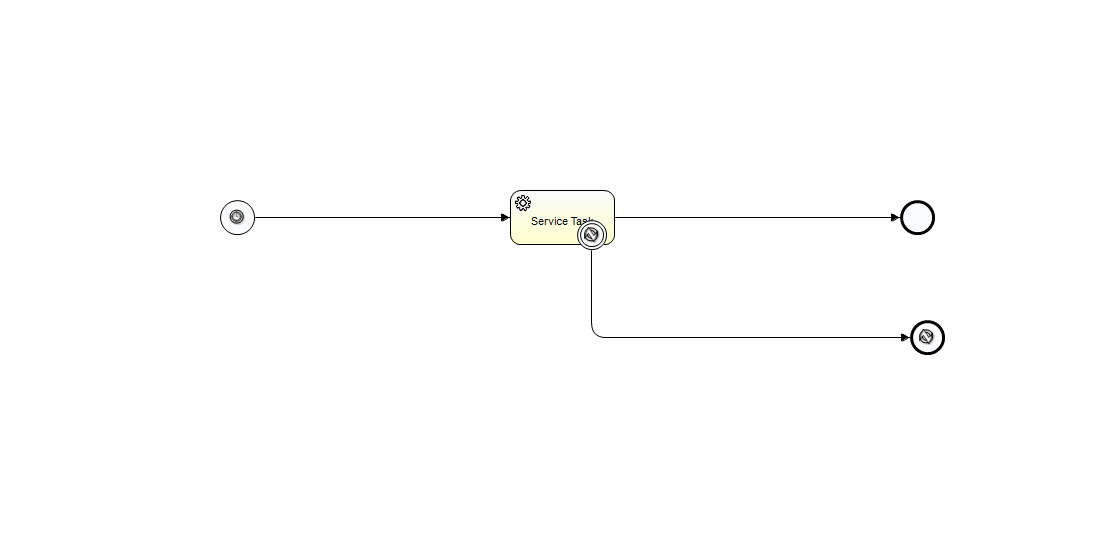
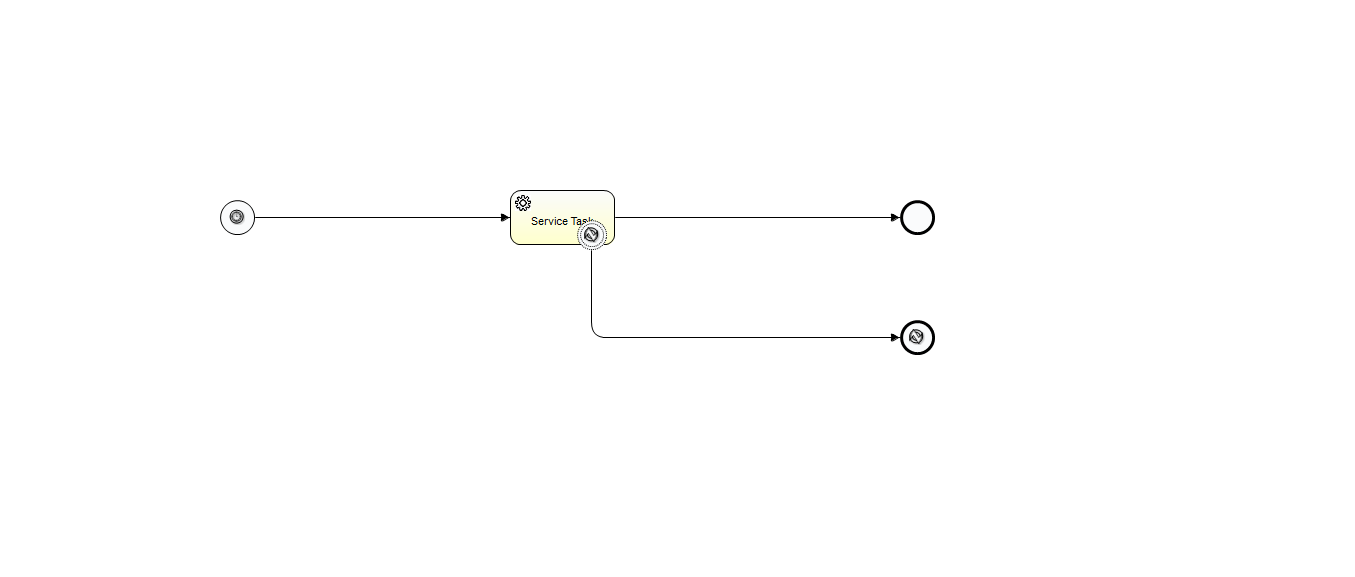
增加边界事件的例子

diff --git a/src/main/java/com/cnfwsy/app/day14/delegateTask/ProcessTestDelegateTask.java b/src/main/java/com/cnfwsy/app/day14/delegateTask/ProcessTestDelegateTask.java
@@ -1,0 +1,72 @@
+package com.cnfwsy.app.day14.delegateTask;
+
+import static org.junit.Assert.*;
+
+import java.util.HashMap;
+import java.util.Map;
+
+import org.activiti.engine.RuntimeService;
+import org.activiti.engine.TaskService;
+import org.activiti.engine.runtime.ProcessInstance;
+import org.activiti.engine.task.DelegationState;
+import org.activiti.engine.task.Task;
+import org.activiti.engine.test.ActivitiRule;
+import org.activiti.engine.test.Deployment;
+import org.junit.Rule;
+import org.junit.Test;
+
+/**
+ * 任务代办：
+ * 你领导接到一个任务，让你代办，你办理完成后任务还是回归到你的领导，事情是你做的，功劳是你领导的！
+ * 
+ * @author zhangjh
+ *
+ */
+public class ProcessTestDelegateTask {
+	@Rule
+	public ActivitiRule activitiRule = new ActivitiRule();
+
+	@Test
+	@Deployment(resources = { "diagrams/AutoAssignee.bpmn" })
+	public void startProcess() throws Exception {
+		RuntimeService runtimeService = activitiRule.getRuntimeService();
+		Map<String, Object> variableMap = new HashMap<String, Object>();
+		variableMap.put("name", "Activiti");
+		ProcessInstance processInstance = runtimeService.startProcessInstanceByKey("AutoAssignee", variableMap);
+		assertNotNull(processInstance.getId());
+		System.out.println("id " + processInstance.getId() + " " + processInstance.getProcessDefinitionId());
+
+		TaskService taskService = activitiRule.getTaskService();
+
+		Task task = taskService.createTaskQuery().singleResult();
+		assertNull(task.getAssignee());
+
+		// 签收
+		taskService.claim(task.getId(), "user1");
+		task = taskService.createTaskQuery().singleResult();
+		assertNull(task.getOwner());
+		assertNotNull(task.getAssignee());
+
+		// 委派
+		taskService.delegateTask(task.getId(), "henryyan");
+
+		task = taskService.createTaskQuery().singleResult();
+		assertEquals("user1", task.getOwner());
+
+		// 查询被委派的任务
+		task = taskService.createTaskQuery().taskAssignee("henryyan").taskDelegationState(DelegationState.PENDING)
+				.singleResult();
+		assertNotNull(task);
+
+		// 被委派人完成任务
+		taskService.resolveTask(task.getId());
+
+		// 查询已完成的委派任务
+		task = taskService.createTaskQuery().taskDelegationState(DelegationState.RESOLVED).singleResult();
+		assertNotNull(task);
+		assertEquals("user1", task.getAssignee());
+		assertEquals("user1", task.getOwner());
+		// taskService.complete(task.getId(),
+		// Collections.singletonMap("taskTwoAssignee", "user2"));
+	}
+}

diff --git a/src/main/java/com/cnfwsy/app/parent/ActivitiInitClass.java b/src/main/java/com/cnfwsy/app/parent/ActivitiInitClass.java
@@ -9,6 +9,8 @@ import org.activiti.engine.RuntimeService;
 import org.activiti.engine.TaskService;
 import org.activiti.engine.task.Task;
 import org.apache.log4j.Logger;
+import org.junit.AfterClass;
+import org.junit.Before;
 import org.junit.BeforeClass;
 import org.springframework.context.support.ClassPathXmlApplicationContext;
 
@@ -20,20 +22,36 @@ import org.springframework.context.support.ClassPathXmlApplicationContext;
 
 public abstract class ActivitiInitClass implements ActivitiInter {
 	private final Logger logger = Logger.getLogger(this.getClass().getName());
-	protected static ClassPathXmlApplicationContext applicationContext;
-	protected static RepositoryService repositoryService;
-	protected static RuntimeService runtimeService;
-	protected static TaskService taskService;
-	protected static HistoryService historyService;
-	protected static IdentityService identityService;
-	protected static List<Task> tasks;
-	protected static long count;
-	protected static String userId;
-	protected static String creator;
-	protected static String businessKey;
+	protected ClassPathXmlApplicationContext applicationContext;
+	protected RepositoryService repositoryService;
+	protected RuntimeService runtimeService;
+	protected TaskService taskService;
+	protected HistoryService historyService;
+	protected IdentityService identityService;
+	protected List<Task> tasks;
+	protected long count;
+	protected String userId;
+	protected String creator;
+	protected String businessKey;
 
+	/**
+	 * 开始测试
+	 */
 	@BeforeClass
-	public static void start() {
+	public static void setUpForClass() throws Exception {
+		System.out.println("++++++++ 开始测试 ++++++++");
+	}
+
+	/**
+	 * 结束测试
+	 */
+	@AfterClass
+	public static void testOverForClass() throws Exception {
+		System.out.println("-------- 结束测试 --------");
+	}
+
+	@Before
+	public void start() {
 		applicationContext = new ClassPathXmlApplicationContext("activiti.cfg.xml");
 		repositoryService = (RepositoryService) applicationContext.getBean("repositoryService");
 		runtimeService = (RuntimeService) applicationContext.getBean("runtimeService");

diff --git a/src/main/java/com/cnfwsy/app/day13/EventSubProcessTest.java b/src/main/java/com/cnfwsy/app/day13/EventSubProcessTest.java
@@ -1,0 +1,54 @@
+package com.cnfwsy.app.day13;
+
+import java.util.HashMap;
+import java.util.List;
+import java.util.Map;
+
+import org.activiti.engine.repository.Deployment;
+import org.activiti.engine.runtime.ProcessInstance;
+import org.activiti.engine.task.Task;
+import org.junit.Test;
+
+import com.cnfwsy.app.parent.ActivitiInitClass;
+
+/**
+ * 
+ * @author zhangjh
+ *
+ */
+public class EventSubProcessTest extends ActivitiInitClass {
+
+	@Test
+	@Override
+	public void t1() {
+
+		Deployment deployment = repositoryService.createDeployment().name("子流程的例子")
+				.addClasspathResource("com/cnfwsy/app/day13/EventSubProcess.bpmn").deploy();
+		log(deployment.getId() + "=" + deployment.getName());
+		creator = "zhangjh";
+		String processDefinitionKey = "EventSubProcessKey";
+		businessKey = String.valueOf(System.currentTimeMillis());
+		identityService.setAuthenticatedUserId(creator);// 启动实例的人
+
+		Map<String, Object> variables = new HashMap<String, Object>();
+		variables.put("pass", false);
+		ProcessInstance processInstance = runtimeService.startProcessInstanceByKey(processDefinitionKey, businessKey,
+				variables);
+		String processInstanceId = processInstance.getId();// 流程实例id
+
+		log("processInstanceId:" + processInstanceId);
+
+		List<Task> tangdTasks = taskService.createTaskQuery().taskCandidateOrAssigned("tangd").list();
+		
+		for (Task task : tangdTasks) {
+			taskService.complete(task.getId());
+		}
+
+		List<Task> zhangjhTasks = taskService.createTaskQuery().taskCandidateOrAssigned("zhangjh").list();
+		for (Task task : zhangjhTasks) {
+			taskService.complete(task.getId());
+		}
+
+	}
+
+}

diff --git a/src/main/java/com/cnfwsy/app/day10/LeaveTest2.java b/src/main/java/com/cnfwsy/app/day10/LeaveTest2.java
@@ -18,12 +18,9 @@ import com.cnfwsy.app.parent.ActivitiInitClass;
 public class LeaveTest2 extends ActivitiInitClass {
 
 	@Test
-	public void test() {
-		repositoryService.createDeployment()
-				.addClasspathResource("com/cnfwsy/app/day10/请假流程.bpmn")
-				.deploy();
-		String processId = runtimeService.startProcessInstanceByKey("leave")
-				.getId();
+	public void t1() {
+		repositoryService.createDeployment().addClasspathResource("com/cnfwsy/app/day10/请假流程.bpmn").deploy();
+		String processId = runtimeService.startProcessInstanceByKey("leave").getId();
 		System.out.println("\nprocessId:" + processId);
 		// 得到笔试的流程
 		System.out.println("\n***************请假流程开始***************");
@@ -32,16 +29,14 @@ public class LeaveTest2 extends ActivitiInitClass {
 
 		deal(false, false);// 领导不通过--->结束申请
 	}
-
+	
 	private void deal(boolean deptLeaderPass, boolean reApply) {
 		// 部门领导 唐丹领取任务
-		long count = taskService.createTaskQuery()
-				.taskCandidateGroup("deptLeader").count();
+		long count = taskService.createTaskQuery().taskCandidateGroup("deptLeader").count();
 
 		System.out.println("部门领导的任务数量：" + count);
 
-		List<Task> tasks = taskService.createTaskQuery()
-				.taskCandidateGroup("deptLeader").list();
+		List<Task> tasks = taskService.createTaskQuery().taskCandidateGroup("deptLeader").list();
 		for (Task task : tasks) {
 			System.out.println("部门领取的任务名:" + task.getName());
 			taskService.claim(task.getId(), "唐丹");

diff --git a/src/main/java/com/cnfwsy/app/day14/timerEventDefinition/TimerEventAndBoundaryEventTest.java b/src/main/java/com/cnfwsy/app/day14/timerEventDefinition/TimerEventAndBoundaryEventTest.java
@@ -21,11 +21,14 @@ import com.cnfwsy.app.parent.ActivitiInitClass;
  */
 public class TimerEventAndBoundaryEventTest extends ActivitiInitClass {
 
-	@Test
 	@Override
-	@Deployment(resources = "com/cnfwsy/app/day14/timerEventDefinition/TimerEventDefinition.bpmn")
+	@Test
+	// @Deployment(resources =
+	// "com/cnfwsy/app/day14/timerEventDefinition/TimerEventDefinition.bpmn")
 	public void t1() {
+		String resourceName = "com/cnfwsy/app/day14/timerEventDefinition/TimerEventDefinition.bpmn";
 
+		repositoryService.createDeployment().addClasspathResource(resourceName).deploy();
 		creator = "zhangjh";
 		identityService.setAuthenticatedUserId(creator);
 
@@ -36,13 +39,6 @@ public class TimerEventAndBoundaryEventTest extends ActivitiInitClass {
 		String businessKey = String.valueOf(System.currentTimeMillis());
 
 		runtimeService.startProcessInstanceByKey(processDefinitionKey, businessKey, variables);
-		
-		
-		
-		
-		
-		
-		
 
 	}
 

diff --git a/src/main/java/com/cnfwsy/app/day14/timerEventDefinition/ThrowsExceptionBehavior.java b/src/main/java/com/cnfwsy/app/day14/timerEventDefinition/ThrowsExceptionBehavior.java
@@ -4,6 +4,11 @@ import org.activiti.engine.impl.pvm.PvmTransition;
 import org.activiti.engine.impl.pvm.delegate.ActivityBehavior;
 import org.activiti.engine.impl.pvm.delegate.ActivityExecution;
 
+/**
+ * 
+ * @author zhangjh
+ *
+ */
 public class ThrowsExceptionBehavior implements ActivityBehavior {
 
 	/**
@@ -20,16 +25,14 @@ public class ThrowsExceptionBehavior implements ActivityBehavior {
 			executeLogic(var);
 			transition = execution.getActivity().findOutgoingTransition("no-exception");
 		} catch (Exception e) {
-			transition = execution.getActivity().findOutgoingTransition("exception");
+			transition = execution.getActivity().findOutgoingTransition("exception1");
 		}
 		execution.take(transition);
 
 	}
 
 	private void executeLogic(String var) throws Exception {
-
-		throw new Exception("SKY-");
-
+		throw new Exception();
 	}
 
 }

diff --git a/src/main/java/com/cnfwsy/app/day10/LeaveTest.java b/src/main/java/com/cnfwsy/app/day10/LeaveTest.java
@@ -18,7 +18,7 @@ import com.cnfwsy.app.parent.ActivitiInitClass;
 public class LeaveTest extends ActivitiInitClass {
 
 	@Test
-	public void test() {
+	public void t1() {
 		
 		repositoryService.createDeployment().addClasspathResource("com/cnfwsy/app/day10/请假流程.bpmn").deploy();
 		String processId = runtimeService.startProcessInstanceByKey("leave").getId();
@@ -70,4 +70,6 @@ public class LeaveTest extends ActivitiInitClass {
 		}
 
 	}
+
+	
 }
